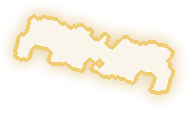
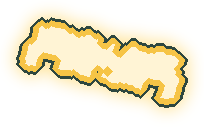
Generate Offer: bolder building outline on the masterplan
Claude-Session: https://claude.ai/code/session_01D7xEH891DwhXR7T5BSWwGE

Changed region(s): [[0.0532, 0.1062, 0.9309, 0.8496]]

diff --git a/offer/units.js b/offer/units.js
@@ -110,6 +110,6 @@ window.ASSL_BUILDING_BOX = {
  ]
 };
 // Gold outline overlays (offer/img/bld_<building>.png) and their position on masterplan_cut.webp
-window.ASSL_BUILDING_OVERLAY = {"H1-4": [0.1524, 0.168, 0.2306, 0.2963], "A1-9": [0.2224, 0.1701, 0.3041, 0.2536], "A1-10": [0.2953, 0.168, 0.3765, 0.2515], "D1-3": [0.3688, 0.1629, 0.43, 0.3116], "D1-2": [0.1435, 0.2862, 0.2182, 0.4124], "C1-3": [0.2041, 0.3391, 0.3147, 0.4542], "E1-2": [0.3235, 0.2658, 0.4212, 0.5061], "H1-2": [0.1153, 0.4155, 0.1935, 0.5346], "A1-8": [0.1806, 0.4257, 0.2671, 0.5255], "F1-2": [0.2529, 0.442, 0.3376, 0.5662], "H1-3": [0.1024, 0.5153, 0.1765, 0.6731], "C1-4": [0.1694, 0.6202, 0.2835, 0.7047], "A1-7": [0.2747, 0.6263, 0.3635, 0.7047]};
+window.ASSL_BUILDING_OVERLAY = {"H1-4": [0.1476, 0.1599, 0.2353, 0.3045], "A1-9": [0.2176, 0.1619, 0.3088, 0.2617], "A1-10": [0.2906, 0.1599, 0.3812, 0.2597], "D1-3": [0.3641, 0.1548, 0.4347, 0.3198], "D1-2": [0.1388, 0.278, 0.2229, 0.4206], "C1-3": [0.1994, 0.331, 0.3194, 0.4623], "E1-2": [0.3188, 0.2576, 0.4259, 0.5143], "H1-2": [0.1106, 0.4073, 0.1982, 0.5428], "A1-8": [0.1759, 0.4175, 0.2718, 0.5336], "F1-2": [0.2482, 0.4338, 0.3424, 0.5743], "H1-3": [0.0976, 0.5071, 0.1812, 0.6813], "C1-4": [0.1647, 0.612, 0.2882, 0.7128], "A1-7": [0.27, 0.6181, 0.3682, 0.7128]};
 // Project name as it appears in the "Project Payments" sheet
 window.OFFER_PROJECT = 'Assl New Cairo';
